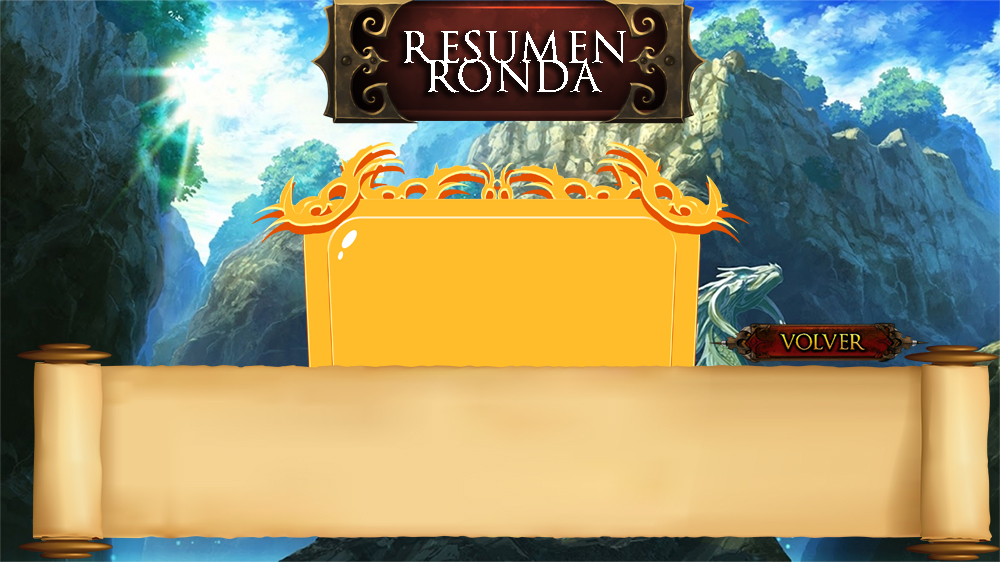
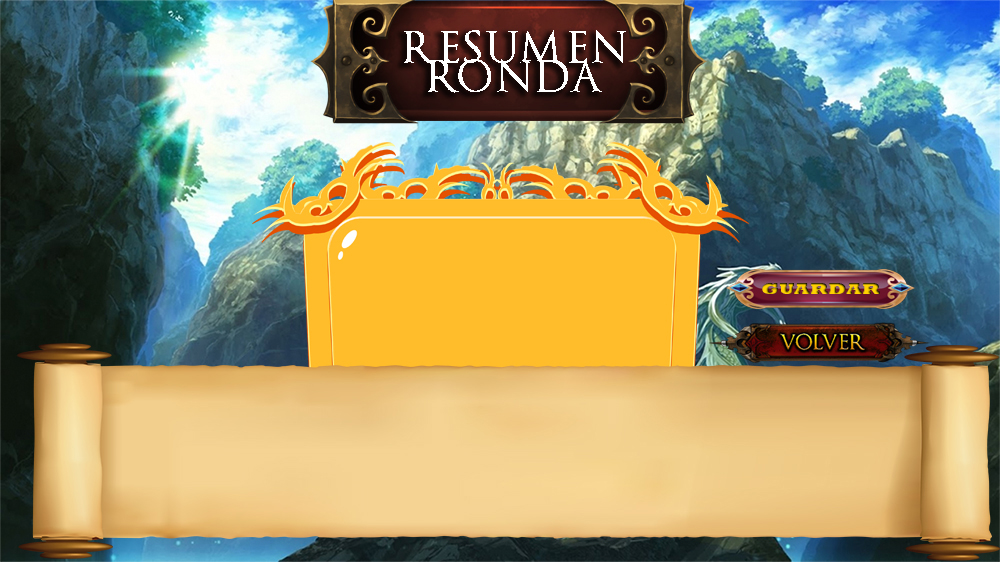
fondo resumen ronda + boton

Changed region(s): [[0.713, 0.4537, 0.93, 0.5747]]

diff --git a/src/main/java/swing/ResumenRonda.java b/src/main/java/swing/ResumenRonda.java
@@ -13,6 +13,7 @@ import java.awt.Font;
 import java.util.ArrayList;
 import java.util.List;
 import javax.swing.JDialog;
+import javax.swing.JOptionPane;
 
 /**
  *
@@ -149,9 +150,27 @@ public class ResumenRonda extends javax.swing.JDialog {
     private void jButton2ActionPerformed(java.awt.event.ActionEvent evt) {//GEN-FIRST:event_jButton2ActionPerformed
         // TODO add your handling code here:
         
+           String[] botones = {"Guardar y salir", "Guardar y continuar", "Cancelar"};
+       int ventana = JOptionPane.showOptionDialog(null, "Pulsa un boton:", "Javadesde0.com", JOptionPane.DEFAULT_OPTION,JOptionPane.QUESTION_MESSAGE, null,botones, botones[0]);
+        String Resultado="";	
+       if(ventana == 0) {
+            Resultado="Guardado correctamente, se va a cerrar el juego...";
+          JOptionPane.showMessageDialog(null, Resultado);
+       
+       } 			
+       else if(ventana == 1) {
+           Resultado="Guardado correctamente, continuemos la batalla";	
+            JOptionPane.showMessageDialog(null, Resultado);
+       }
+       else if(ventana == 2) {
+           Resultado="Después no nos vengas llorando que no encuentras tus datos";	
+            JOptionPane.showMessageDialog(null, Resultado);
+       }
+ 
+    
         System.out.println(planetas);
-        ConexionBD.crearBD();
-        ConexionBD.addPlanetas(planetas);
+        //ConexionBD.crearBD();
+        //ConexionBD.addPlanetas(planetas);
     }//GEN-LAST:event_jButton2ActionPerformed
 
   
